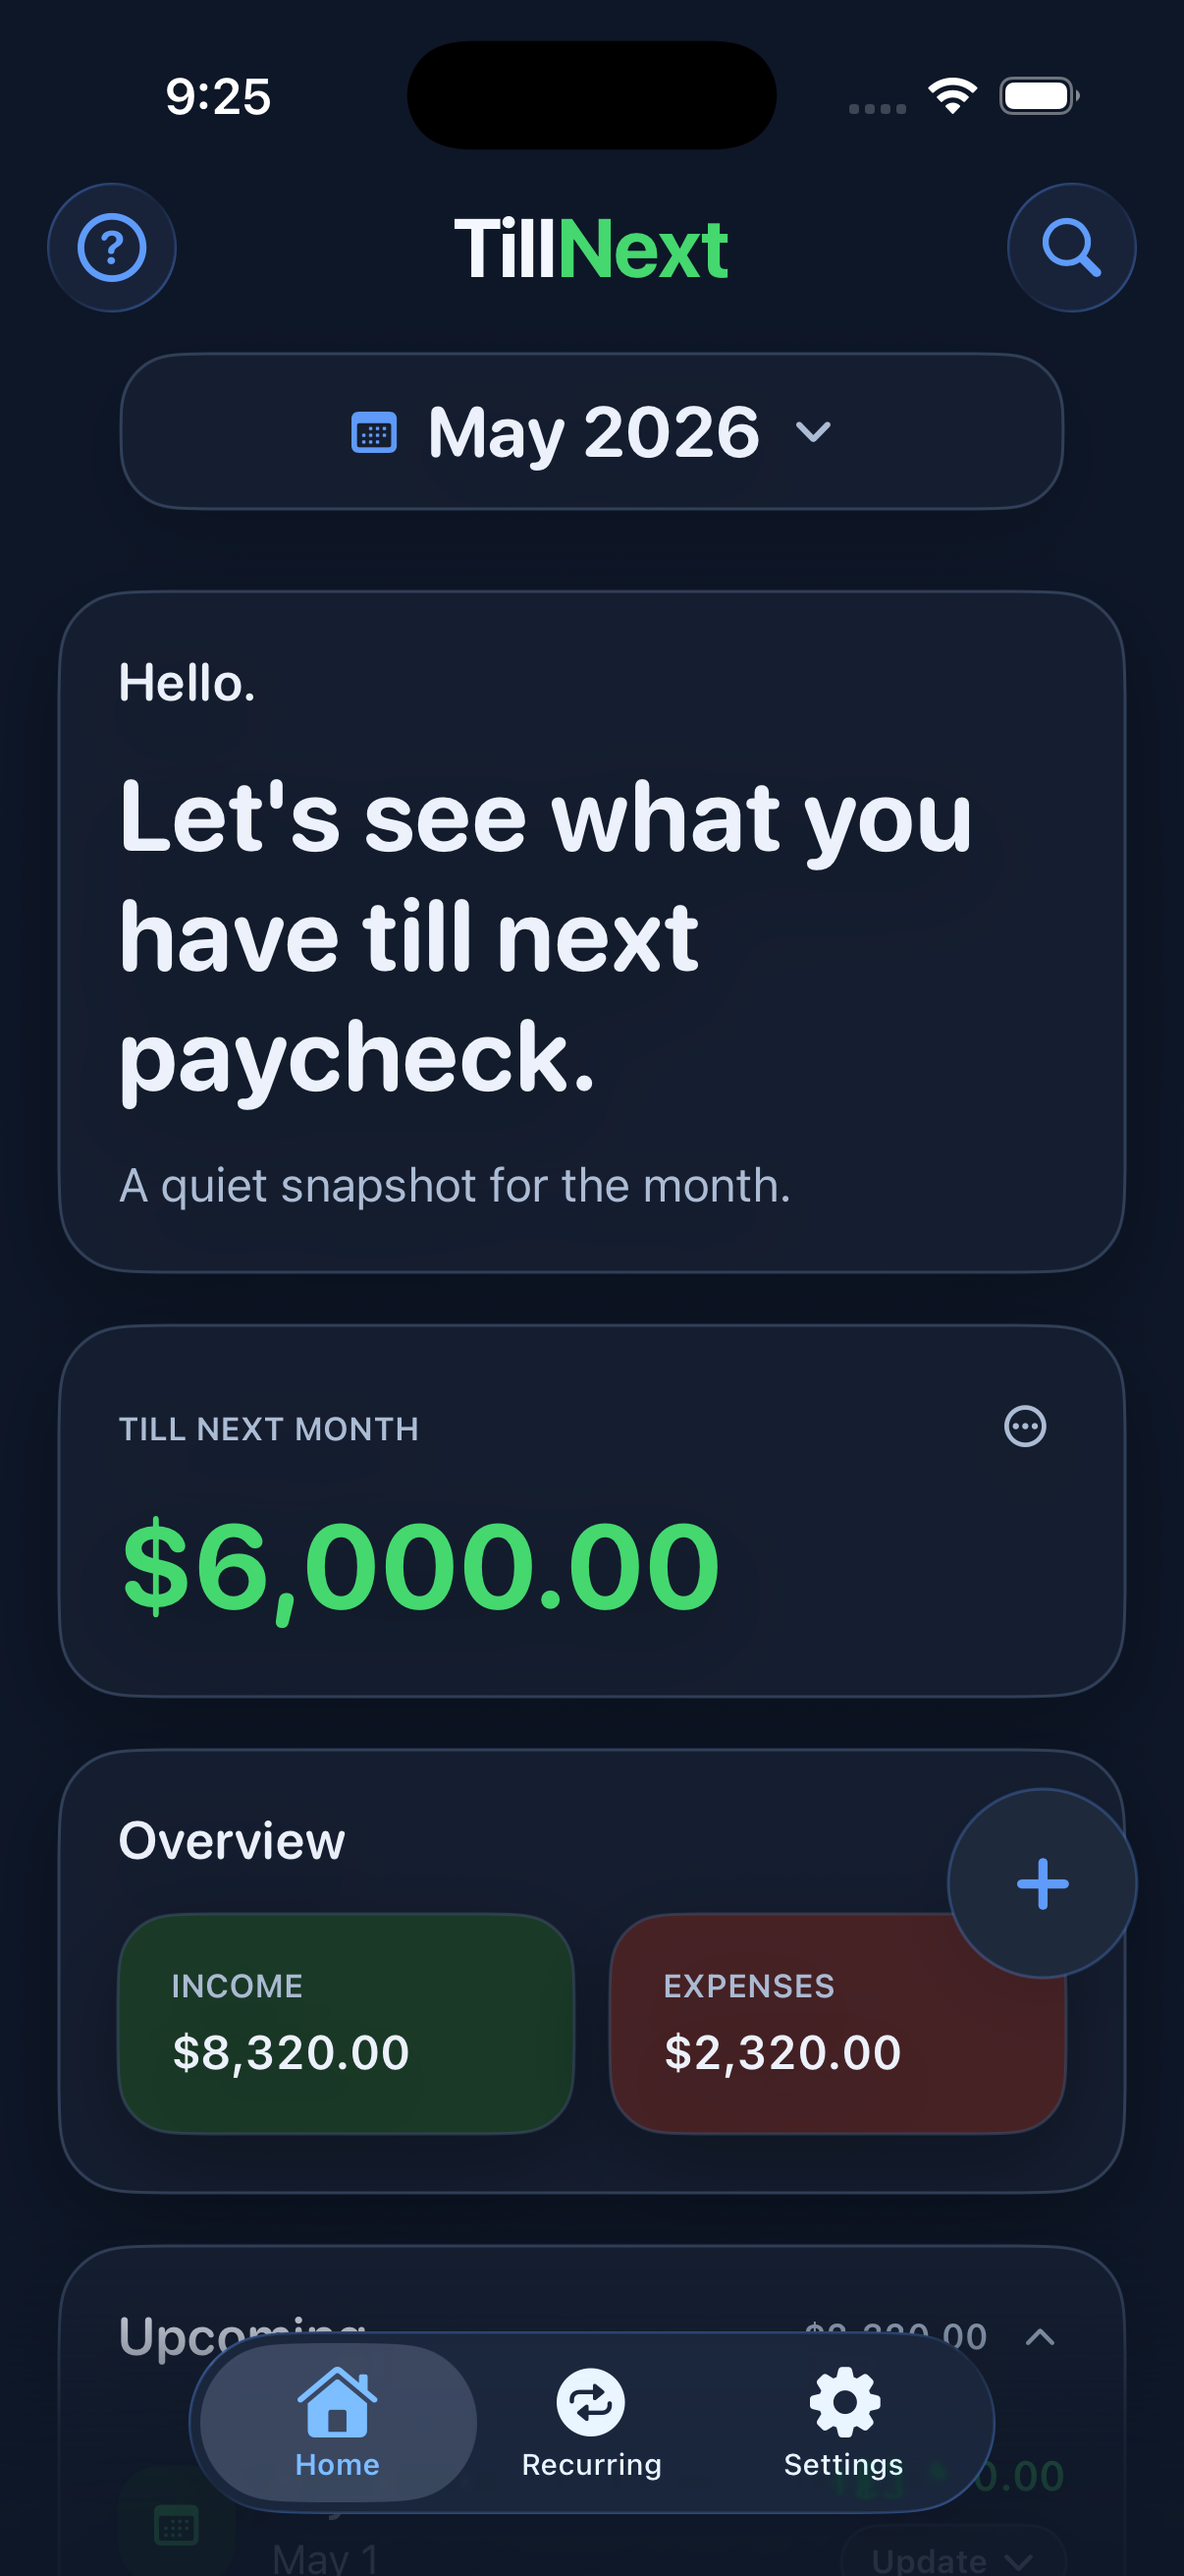
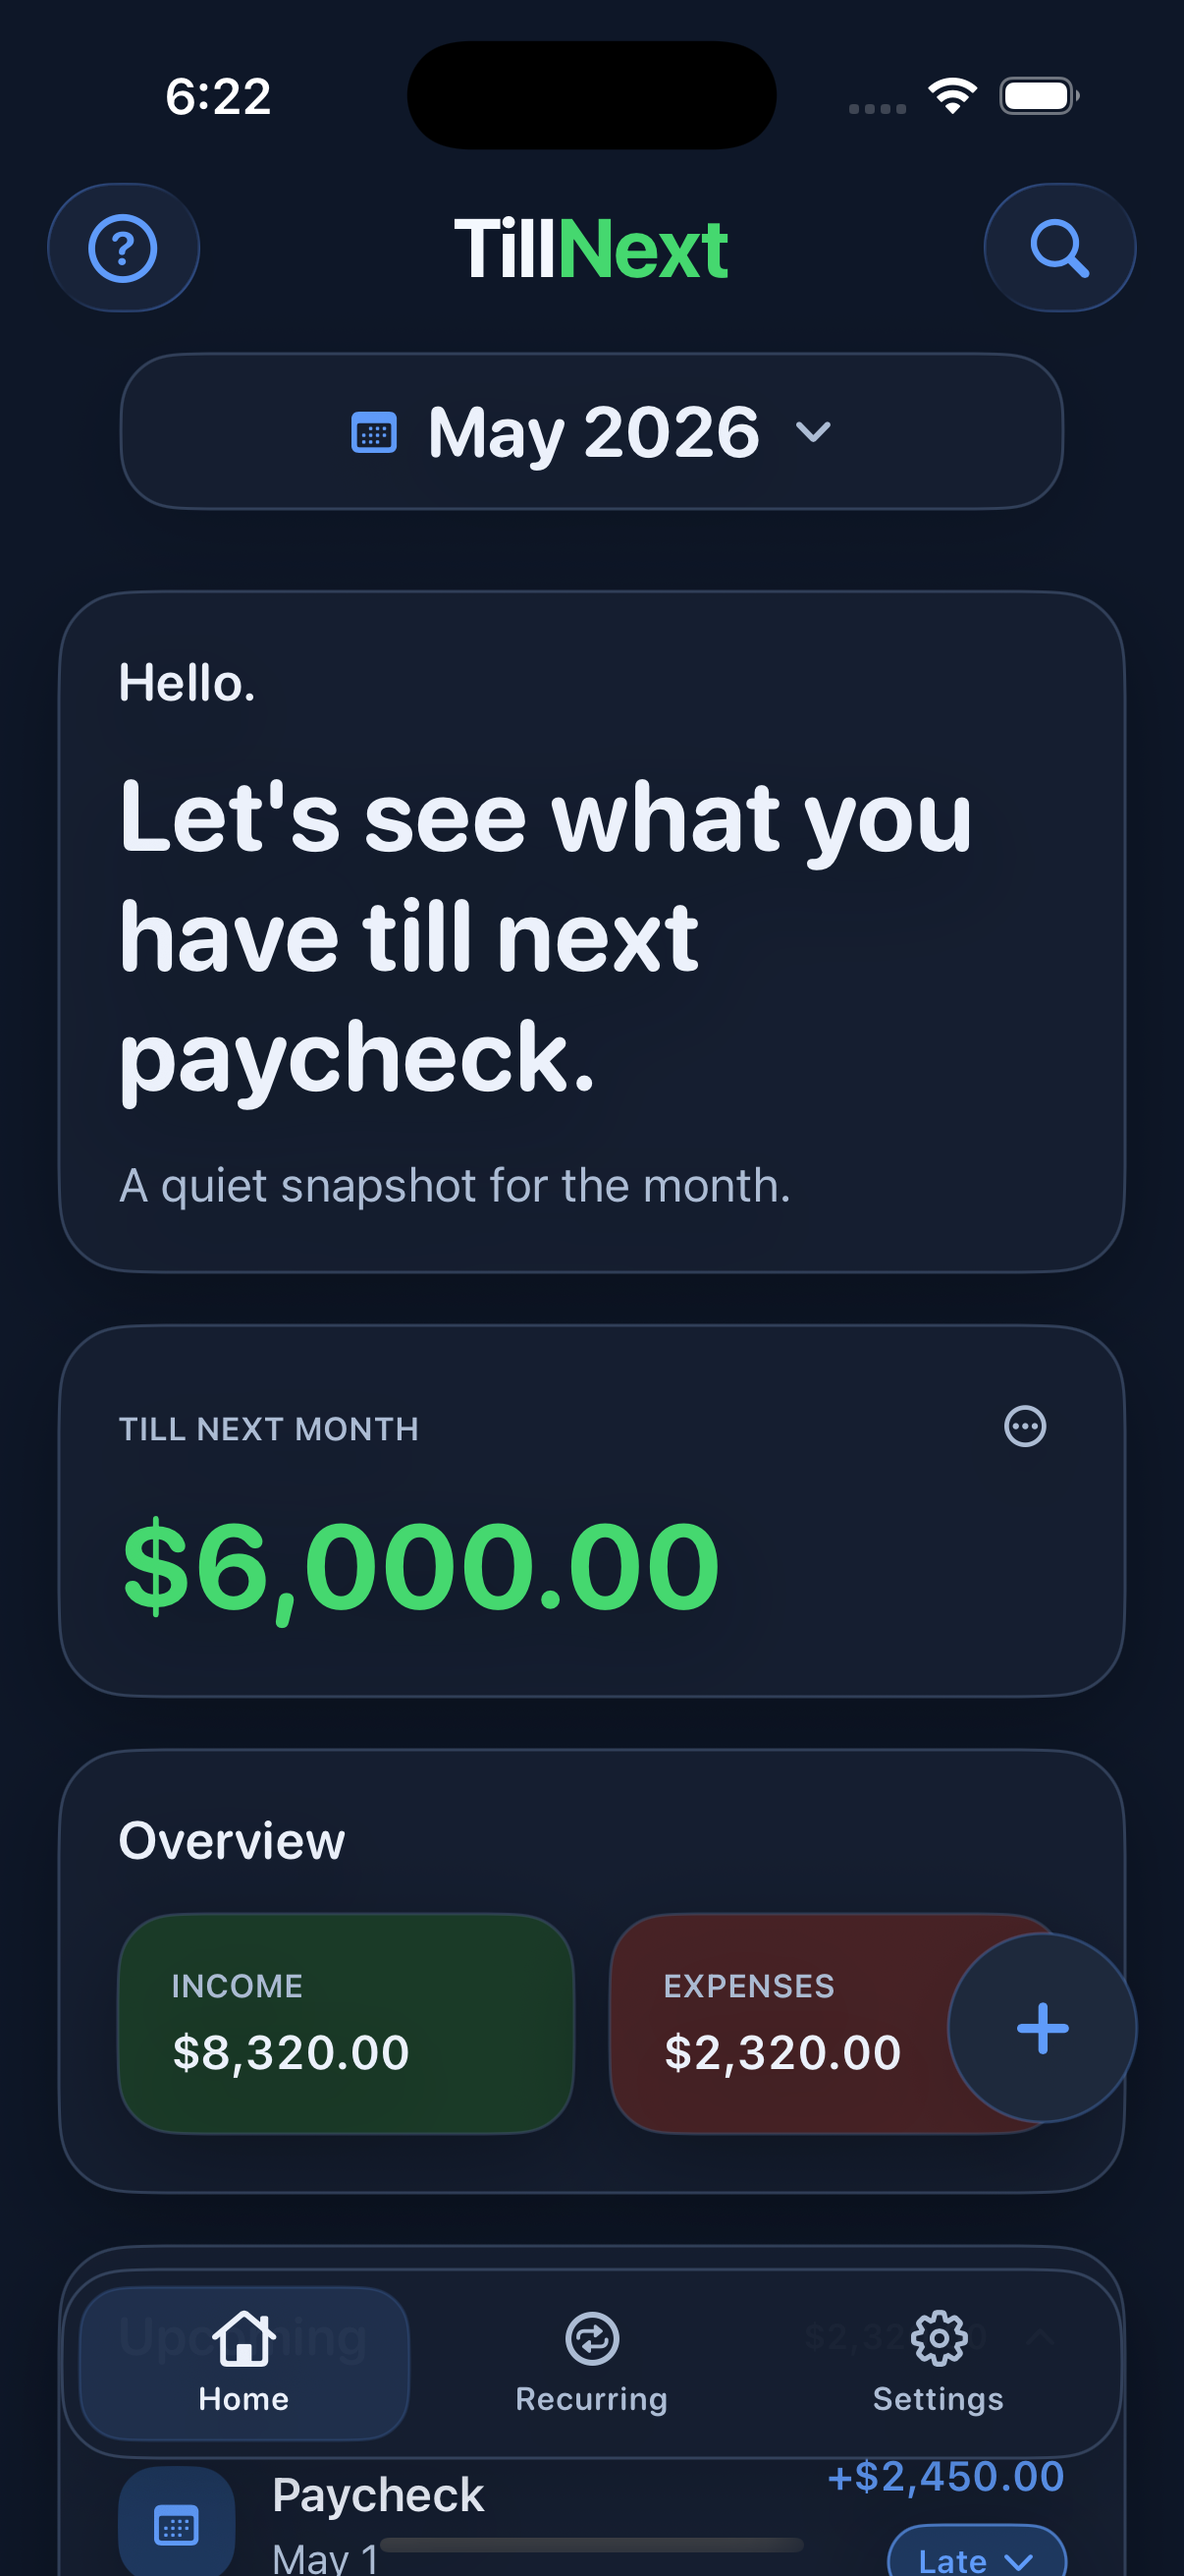
Refresh tab rail bottom clearance assets

diff --git a/changelog/index.html b/changelog/index.html
@@ -22,7 +22,7 @@
       <h2>Version 1.0, Pre-Launch</h2>
       <p><strong>Updated:</strong> May 3, 2026</p>
       <ul>
-        <li>Improved bottom tab responsiveness and removed unreliable horizontal tab swipes.</li>
+        <li>Improved bottom tab responsiveness, removed unreliable horizontal tab swipes, and kept lower screen content reachable above the tab buttons.</li>
         <li>Improved Home refresh performance when planner data changes, keeping totals and notices current while reducing unnecessary work.</li>
         <li>Improved widget quick-add buttons so they stay readable when the Home Screen widget is customized with tinted or clear rendering.</li>
         <li>Made the darker app icon the default and added a Settings picker to switch between the darker and lighter Home Screen icons.</li>
